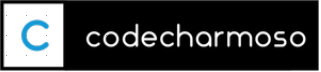
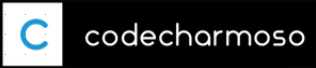
use of paddings and layout restructuring

diff --git a/Index.html b/Index.html
@@ -11,30 +11,28 @@
     <link rel="icon" href="img/icon.png"/>
     <link rel="stylesheet" href="css/style.css"/>
     <link rel="preconnect" href="https://fonts.gstatic.com"/>
-  <link href="https://fonts.googleapis.com/css2?family=Rubik:ital,wght@0,300;0,400;0,500;0,600;0,700;0,800;0,900;1,300;1,400;1,500;1,600;1,700;1,800;1,900&display=swap" rel="stylesheet"/>
+    <link href="https://fonts.googleapis.com/css2?family=Rubik:ital,wght@0,300;0,400;0,500;0,600;0,700;0,800;0,900;1,300;1,400;1,500;1,600;1,700;1,800;1,900&display=swap" rel="stylesheet"/>
   </head>
 
   <body>
       <header>
-        <nav>
-          <img src="img/capa.png" title="imagem de capa do site" alt="uma imagem de fundo clara com algumas tags HTML na cor roxa"/>
-
-          <!--
-          <img src="img/codeCharmoso.png" width="200px" height="70px" title="logotipo da página" alt="retangulo de borda espessa preta com uma divisória.
+        <nav id="navBar">
+          <img src="img/codeCharmoso.png" width="170px" height="40px" title="logotipo da página" alt="retangulo de borda espessa preta com uma divisória.
           Em seu lado esquerdo o fundo é branco e em destaque está a letra "C" em azul. Do lado direito o fundo é preto com
           a escrita "codeCharmoso" em branco"/><br/><br/>
-                    <div id="menu" align="right">
-                      <a href="tutoriais.html">Tutoriais</a> |
-                      <a href="sobre.html">Sobre</a> |
-                      <a href="contato.html">Contato</a>
-                    </div>
-          -->
+                <div id="menu" class="text-overlay">
+                    <a href="tutoriais.html">Tutoriais</a> |
+                    <a href="sobre.html">Sobre</a> |
+                    <a href="contato.html">Contato</a>
+                </div>
         </nav>
+        <div class="cover">
+          <img src="img/capa.png" title="imagem de capa do site" alt="uma imagem de fundo clara com algumas tags HTML na cor roxa"/>
+        </div>
       </header>
 
-
-
-        <section>
+      <div id="contentPage">
+        <section class="content">
           <header><h1>Guia de HTML Básico para iniciantes</h1></header>
           <article>
             <p>E aí galera, beleza?<br/><br/>
@@ -371,8 +369,10 @@
           Até a próxima!<br/><br/>
           <img src="img/tchau.gif" title="gif engraçada" alt="uma gif do personagem Homer Simpsons sumindo entre uma moita"/>
         </div>
-
-        <footer>&copy; 2021 Copyright.</footer>
-
+      </div>
+        <footer>
+          <div id="footer">
+            &copy; 2021 Copyright.
+          </div></footer>
   </body>
 </html>

diff --git a/guia-css.html b/guia-css.html
@@ -14,26 +14,26 @@
   <link href="https://fonts.googleapis.com/css2?family=Rubik:ital,wght@0,300;0,400;0,500;0,600;0,700;0,800;0,900;1,300;1,400;1,500;1,600;1,700;1,800;1,900&display=swap" rel="stylesheet"/>
   </head>
 
+
   <body>
-
-    <header>
-      <nav>
-        <img src="img/capa-css.png" title="imagem de capa do site" alt="uma imagem de fundo clara com algumas tags HTML na cor roxa"/>
-
-        <!--
-        <img src="img/codeCharmoso.png" width="200px" height="70px" title="logotipo da página" alt="retangulo de borda espessa preta com uma divisória.
-        Em seu lado esquerdo o fundo é branco e em destaque está a letra "C" em azul. Do lado direito o fundo é preto com
-        a escrita "codeCharmoso" em branco"/><br/><br/>
-                  <div id="menu" align="right">
+      <header>
+        <nav id="navBar">
+          <img src="img/codeCharmoso.png" width="170px" height="40px" title="logotipo da página" alt="retangulo de borda espessa preta com uma divisória.
+          Em seu lado esquerdo o fundo é branco e em destaque está a letra "C" em azul. Do lado direito o fundo é preto com
+          a escrita "codeCharmoso" em branco"/><br/><br/>
+                <div id="menu" class="text-overlay">
                     <a href="tutoriais.html">Tutoriais</a> |
                     <a href="sobre.html">Sobre</a> |
                     <a href="contato.html">Contato</a>
-                  </div>
-        -->
-      </nav>
-    </header>
+                </div>
+        </nav>
+        <div class="cover">
+          <img src="img/capa-css.png" title="imagem de capa do site" alt="uma imagem de fundo clara com algumas tags HTML na cor roxa"/>
+        </div>
+      </header>
 
-    <section>
+    <div id="contentPage">
+    <section class="content">
       <header> <h1>Introdução</h1> </header>
       <article>
       <p>E aí, beleza?<br/><br/>
@@ -49,7 +49,6 @@
         <li><a href="#colors">Escolhendo as cores</a></li>
       </ul>
     </article>
-    </section>
 
     <section>
       <header> <h2>Como utilizar<a name="adicionando"/></h2> </header>
@@ -179,10 +178,12 @@
       Até a próxima!<br/><br/>
       <img src="img/tchau.gif" title="gif engraçada" alt="uma gif do personagem Homer Simpsons sumindo entre uma moita"/>
     </div>
+  </div>
 
-    <footer>&copy; 2021 Copyright.</footer>
-
-
+    <footer>
+      <div id="footer">
+        &copy; 2021 Copyright.
+      </div></footer>
 
   </body>
 </html>

diff --git a/css/style.css b/css/style.css
@@ -1,6 +1,9 @@
 html, body{
   font-family: 'Rubik', sans-serif;
-  background: #E0E1DD;
+  margin: 0px;
+  padding: 0px;
+  /*background-image: linear-gradient(to bottom, #e1e7eb, #e7ecf0, #edf0f5, #f3f5fa, #f9f9ff);*/
+  background: linear-gradient(180deg, hsla(214, 15%, 64%, 1) 0%, hsla(75, 6%, 87%, 1) 50%, hsla(231, 24%, 89%, 1) 100%);
 }
 
 .strong{
@@ -13,4 +16,41 @@ html, body{
 
 .scratched{
   text-decoration: line-through;
+}
+
+#navBar {
+  border: 1px solid;
+  padding: 20px 10px 10px 10px ;
+  background: #031d44;
+}
+
+#menu {
+  margin: -50px 100px 15px;
+  text-align: right;
+}
+
+.text-overlay{
+    font: normal normal 300 1em/1em "Rubik";
+    color: #E0E1DD;
+}
+.cover{
+  padding: 20px;
+  text-align: center;
+}
+
+#contentPage{
+  padding: 20px 170px 20px 170px;
+  text-align: justify;
+}
+
+.content{
+  background: #fff;
+  padding: 20px;
+  margin-top: -50px;
+}
+
+#footer{
+  text-align: center;
+  padding: 10px;
+  margin-top: -10px;
 }
